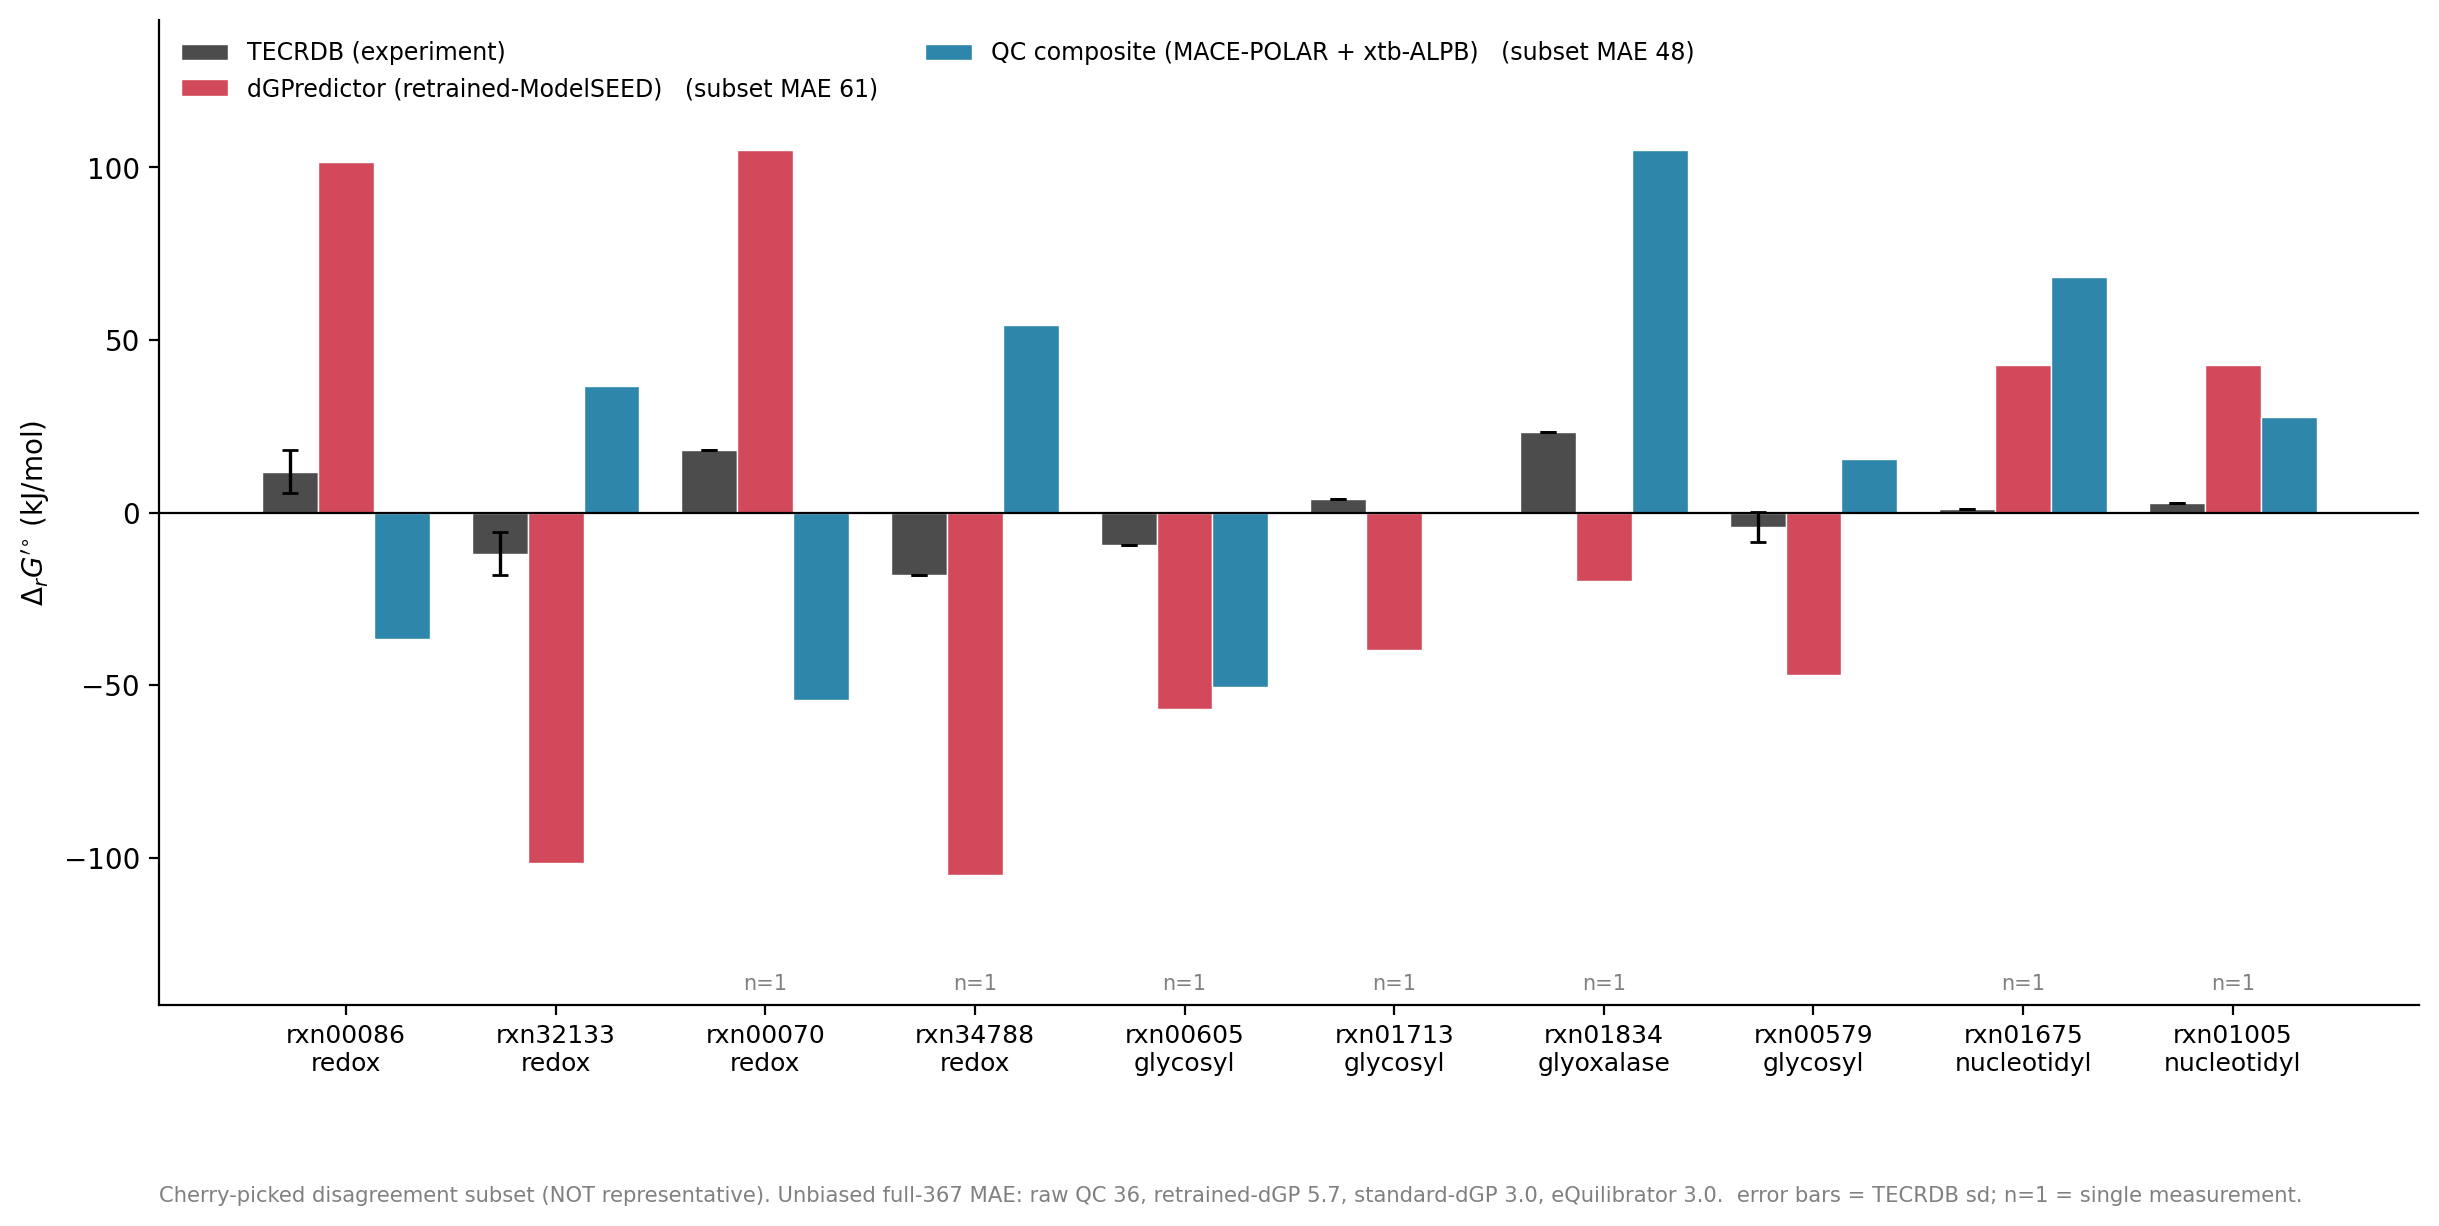
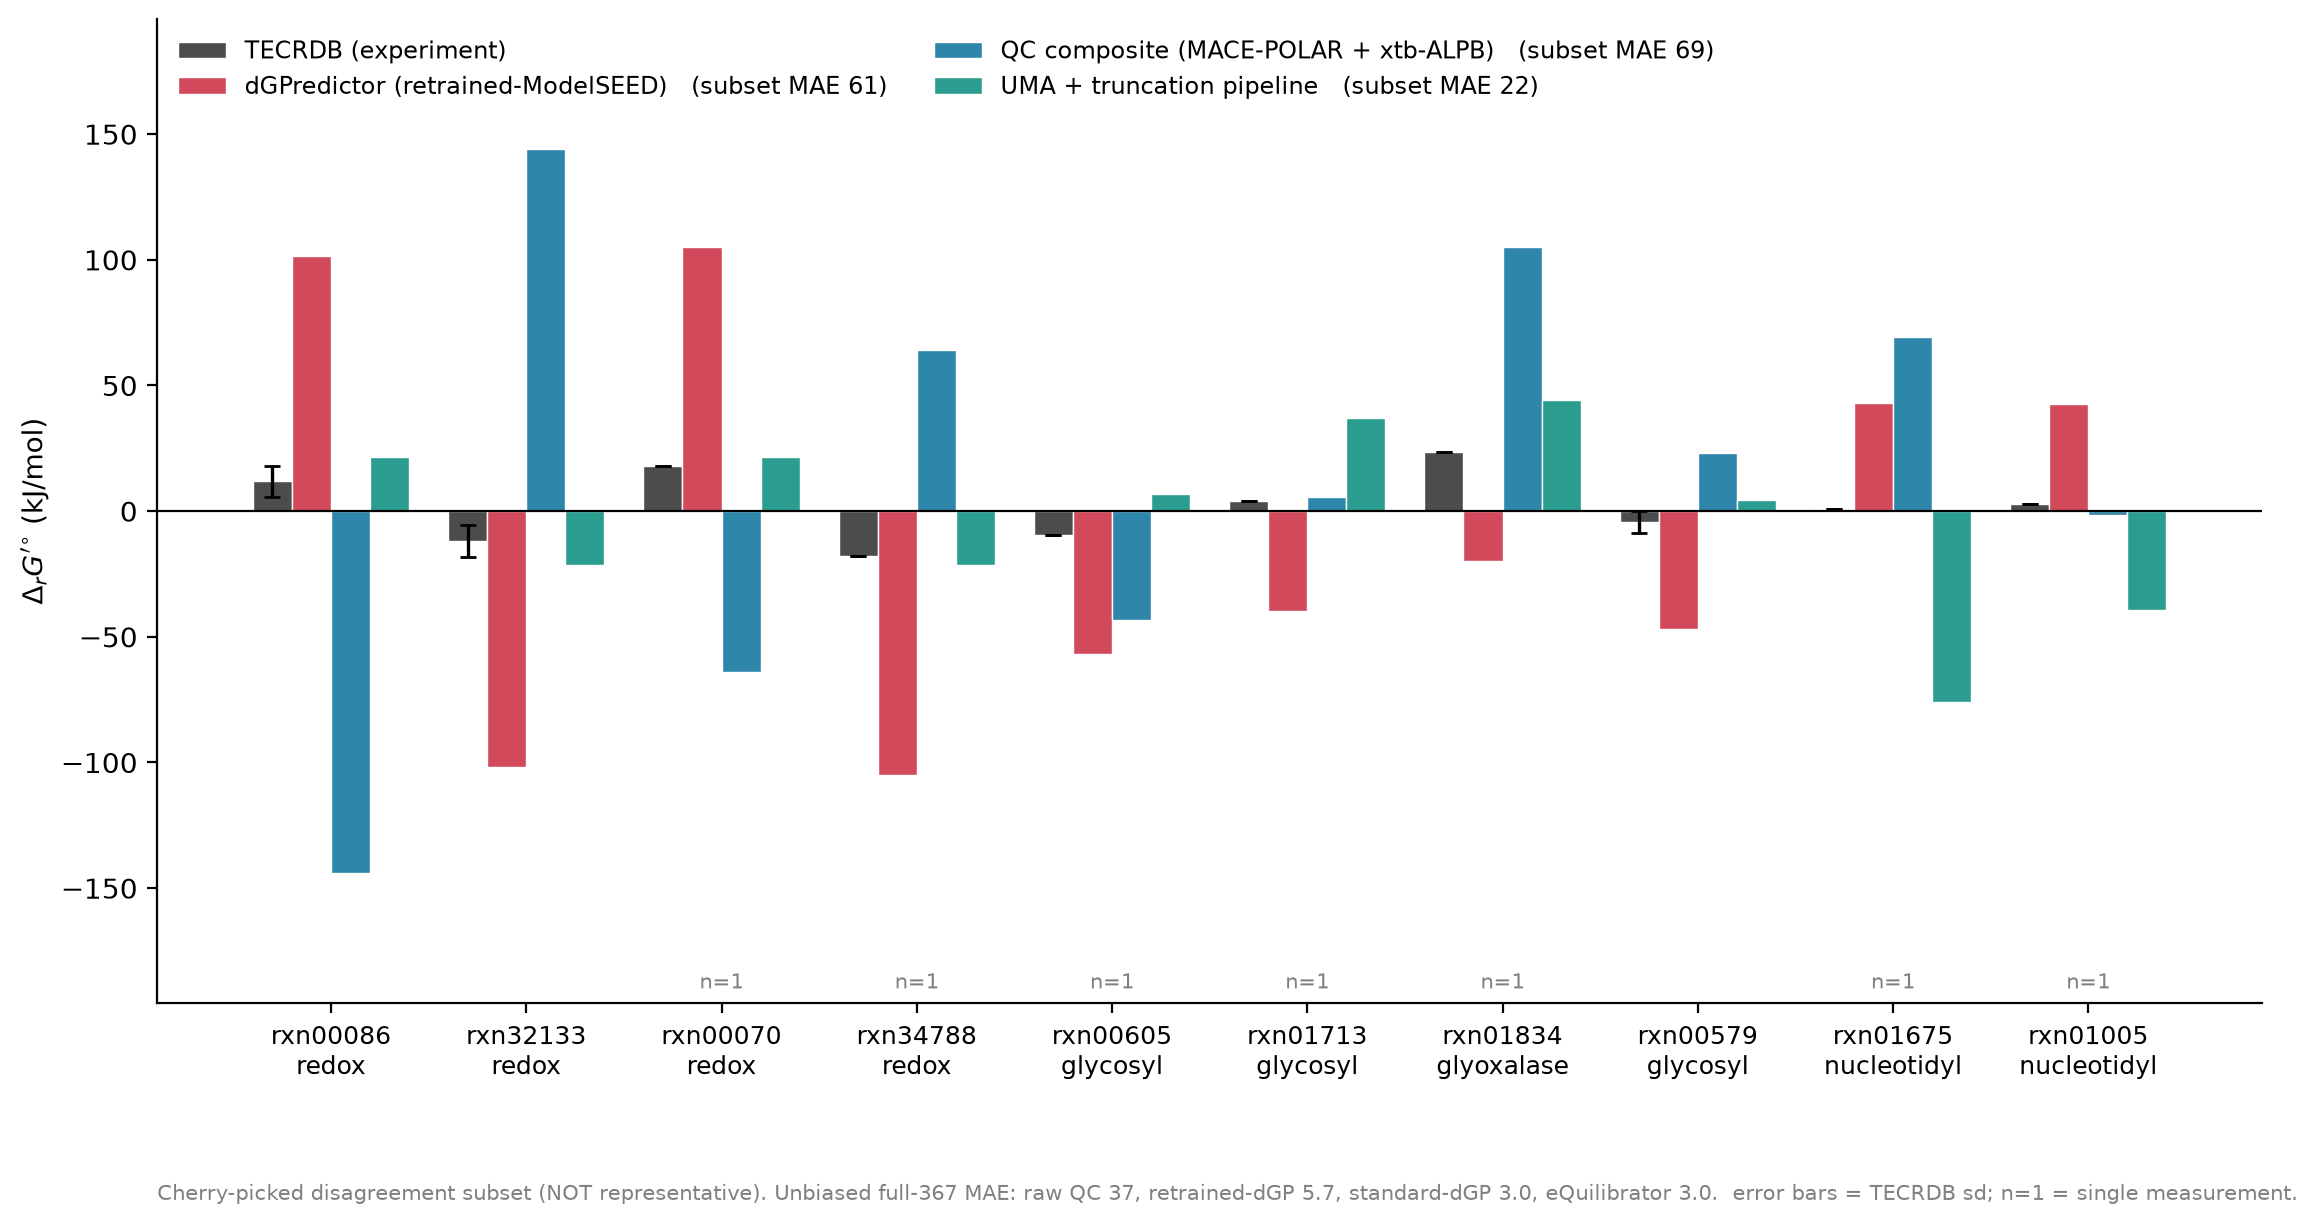
Figure: add UMA+truncation pipeline series to top-10 (subset MAE 22 vs QC composite 69)
Current-best UMA pipeline (truncation+convergent sampling+solvation) on the 10 dGP-disagreement
reactions. ~3x better than the old MACE-POLAR QC composite on this subset, driven by truncation
fixing redox/glycosyl catastrophic cancellation. Caveat: cherry-picked subset; full-367 unbiased
MAE pending (full367 run); real-nucleotidyl (rxn01675/01005) still C-X electronic floor.

diff --git a/pipeline/plot_comparison.py b/pipeline/plot_comparison.py
@@ -39,6 +39,8 @@ def main():
     meta = {r: v for r, v in json.load(open(f"{HERE}/tecrdb_full_experiment.json")).items()}
     qc = json.load(open(f"{THERMO}/results/benchmark/tecrdb_full_scored.json"))["scored_kJ"]
     rtr = json.load(open(f"{THERMO}/results/eq/dgpredictor_retrained_full.json"))
+    cur = {k: v for k, v in json.load(open(f"{HERE}/current_pipeline_top10.json")).items()
+           if not k.startswith("_")}                     # this-work UMA+truncation pipeline
     # full-set raw QC MAE for the caption (authoritative, unbiased)
     common = [r for r in qc if r in exp]
     raw_qc_mae = float(np.mean([abs(qc[r] - exp[r]) for r in common]))
@@ -54,6 +56,7 @@ def main():
         ("TECRDB (experiment)", E, "#4C4C4C"),
         ("dGPredictor (retrained-ModelSEED)", np.array([val(rtr, r, par, "dG_kJ") for r, _, par in RXNS]), "#D1495B"),
         ("QC composite (MACE-POLAR + xtb-ALPB)", np.array([val(qc, r, par) for r, _, par in RXNS]), "#2E86AB"),
+        ("UMA + truncation pipeline", np.array([val(cur, r, par) for r, _, par in RXNS]), "#2A9D8F"),
     ]
     sd = [float(meta[par or r]["sd_kJ"] or 0.0) if (meta[par or r]["sd_kJ"] and meta[par or r]["n"] > 1) else 0.0
           for r, _, par in RXNS]
